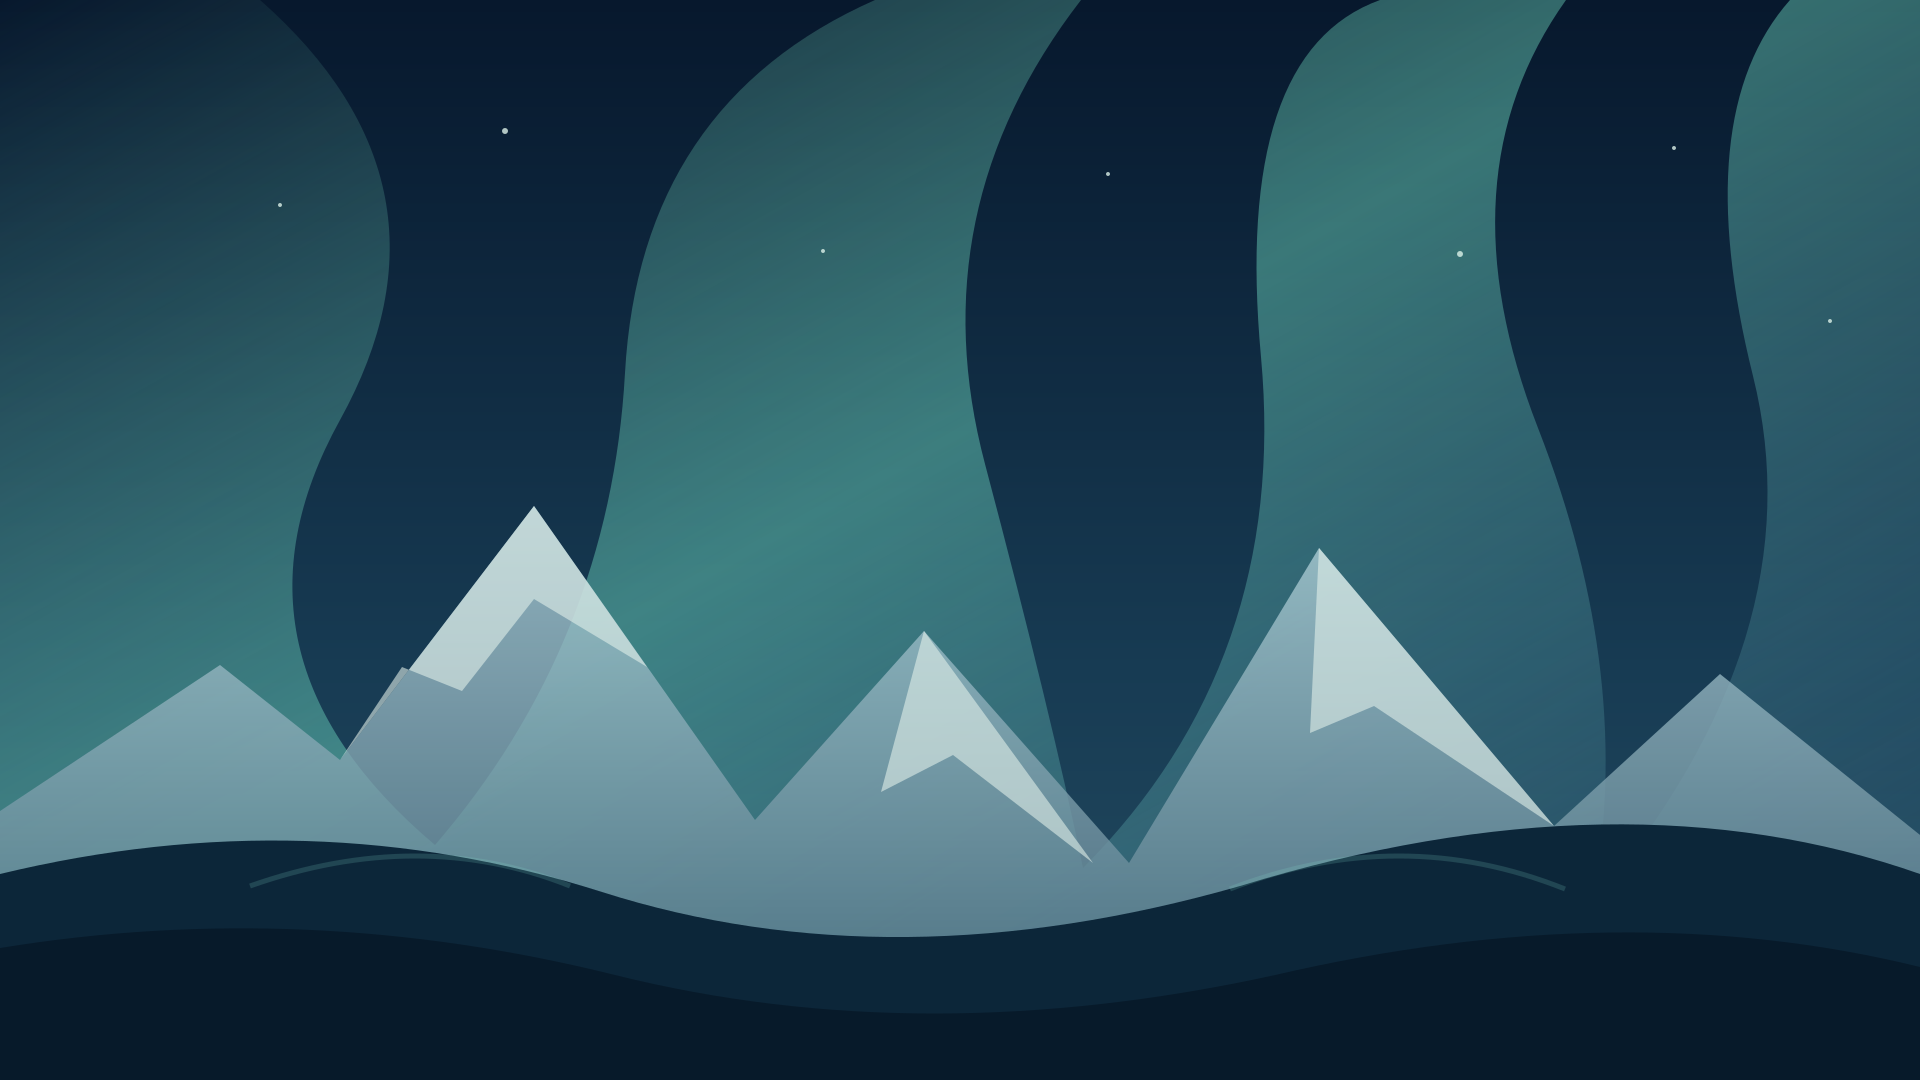
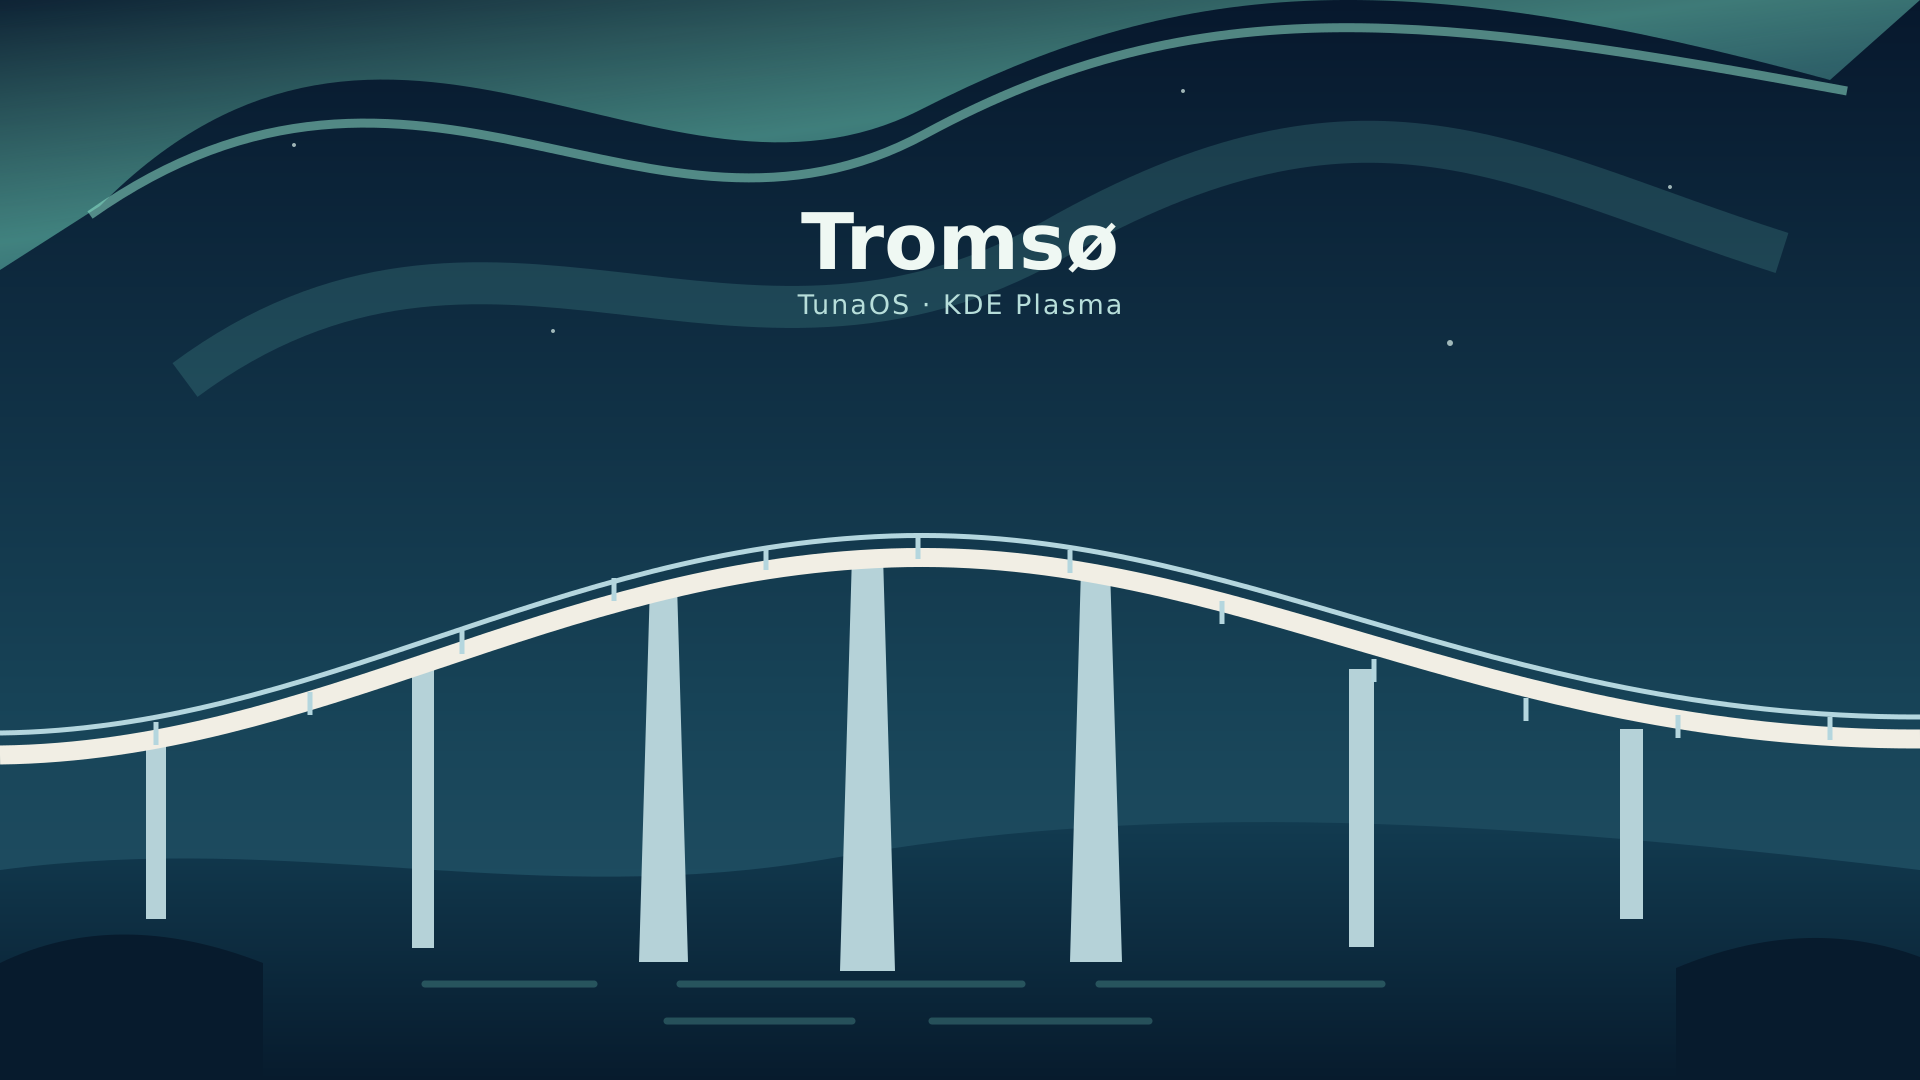
Make original Tromsø Bridge identity the desktop and boot default

diff --git a/README.md b/README.md
@@ -11,22 +11,30 @@ of freedesktop-sdk and publishes a bootable OCI image to `ghcr.io/tuna-os/tromso
 [Release readiness](ROADMAP.md#release-readiness) for dated CI evidence and
 remaining blockers.
 
-![Tromso wordmark](branding/tromso/tromso-wordmark.svg)
+![Tromsø wordmark](branding/tromso/tromso-wordmark.svg)
 
-Tromsø's icon and wallpaper are original TunaOS artwork, separate from KDE
-and Aurora. The configuration selects Tromsø's wallpaper and About-page identity.
-KDE Breeze supplies the controls and splash. These defaults still need visual
-verification in a candidate VM.
+KDE Plasma provides the desktop. The original TunaOS artwork shows Tromsø Bridge
+under an aurora. The icon, wordmark and wallpaper use the same bridge and colors.
+These are not official KDE or city logos. The default wallpaper, login screen
+and About page select this identity. A new candidate still needs visual checks
+in a VM.
 
-![Tromso desktop wallpaper preview](branding/tromso/tromso-wallpaper.png)
+![Tromsø desktop wallpaper preview](branding/tromso/tromso-wallpaper.png)
 
-Icon: [Tromso application mark](branding/tromso/tromso-logo.svg).
+Icon: [Tromsø Bridge city mark](branding/tromso/tromso-logo.svg).
+
+To make the PNG files from their SVG sources:
+
+```bash
+rsvg-convert --width=480 --height=120 --output=branding/tromso/tromso-wordmark.png branding/tromso/tromso-wordmark.svg
+rsvg-convert --width=1920 --height=1080 --output=branding/tromso/tromso-wallpaper.png branding/tromso/tromso-wallpaper.svg
+```
 
 > **Attribution.** Tromso reuses configuration and helper scripts derived from
 > [`ublue-os/aurora`](https://github.com/ublue-os/aurora) and the former
 > `get-aurora-dev` org, under their original licenses. Tromso is **not affiliated
 > with Aurora**, and Aurora does not endorse it. The image ships none of Aurora's
-> artwork, logos, wallpapers or trademarks. The desktop uses stock KDE Breeze.
+> artwork, logos, wallpapers or trademarks. KDE Breeze supplies the desktop controls.
 
 <!-- hive-contribute-plea: donated-compute appeal, keep in sync across repos -->
 ## Contribute compute — no code needed
